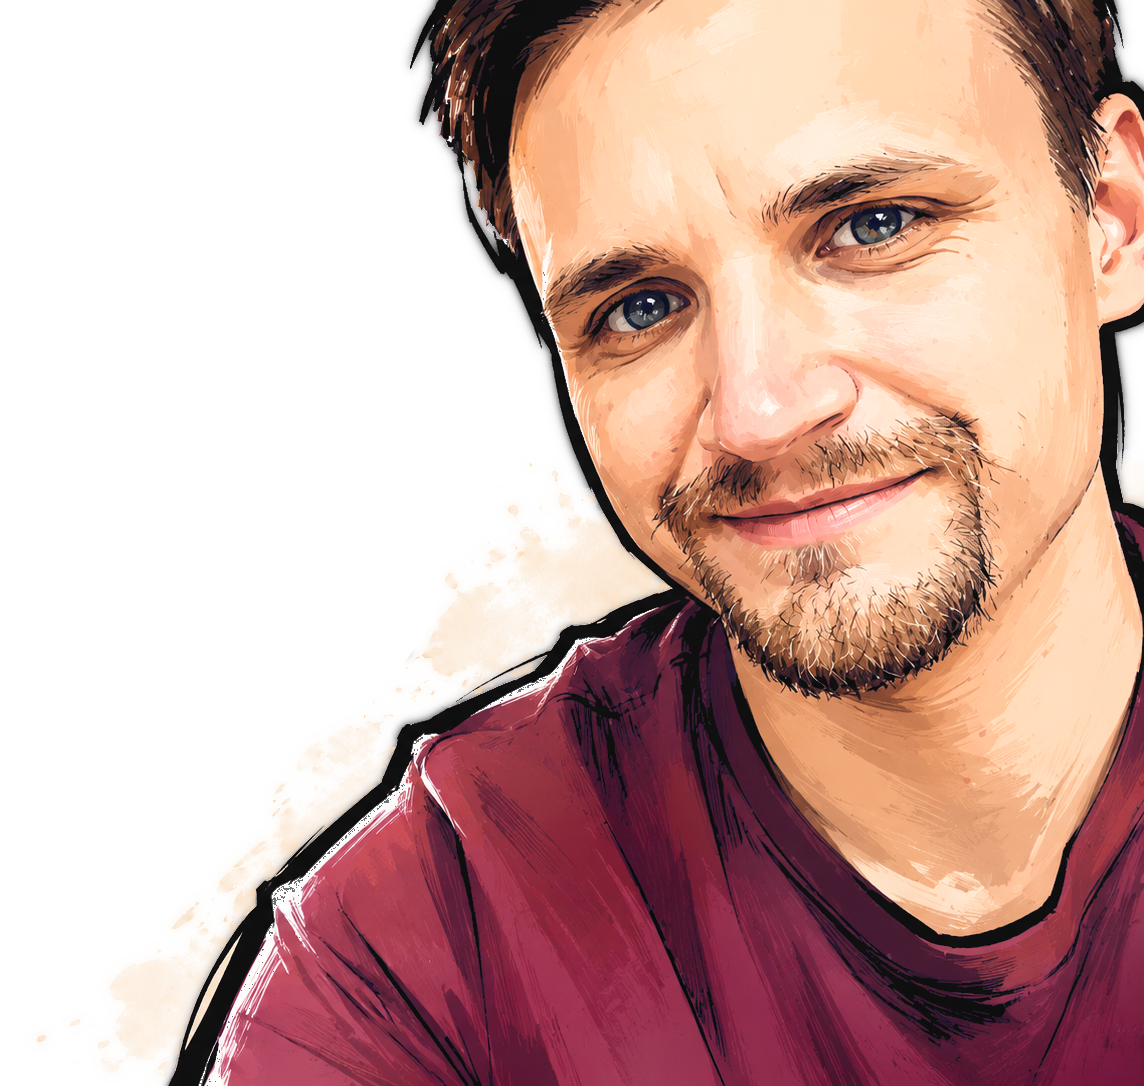
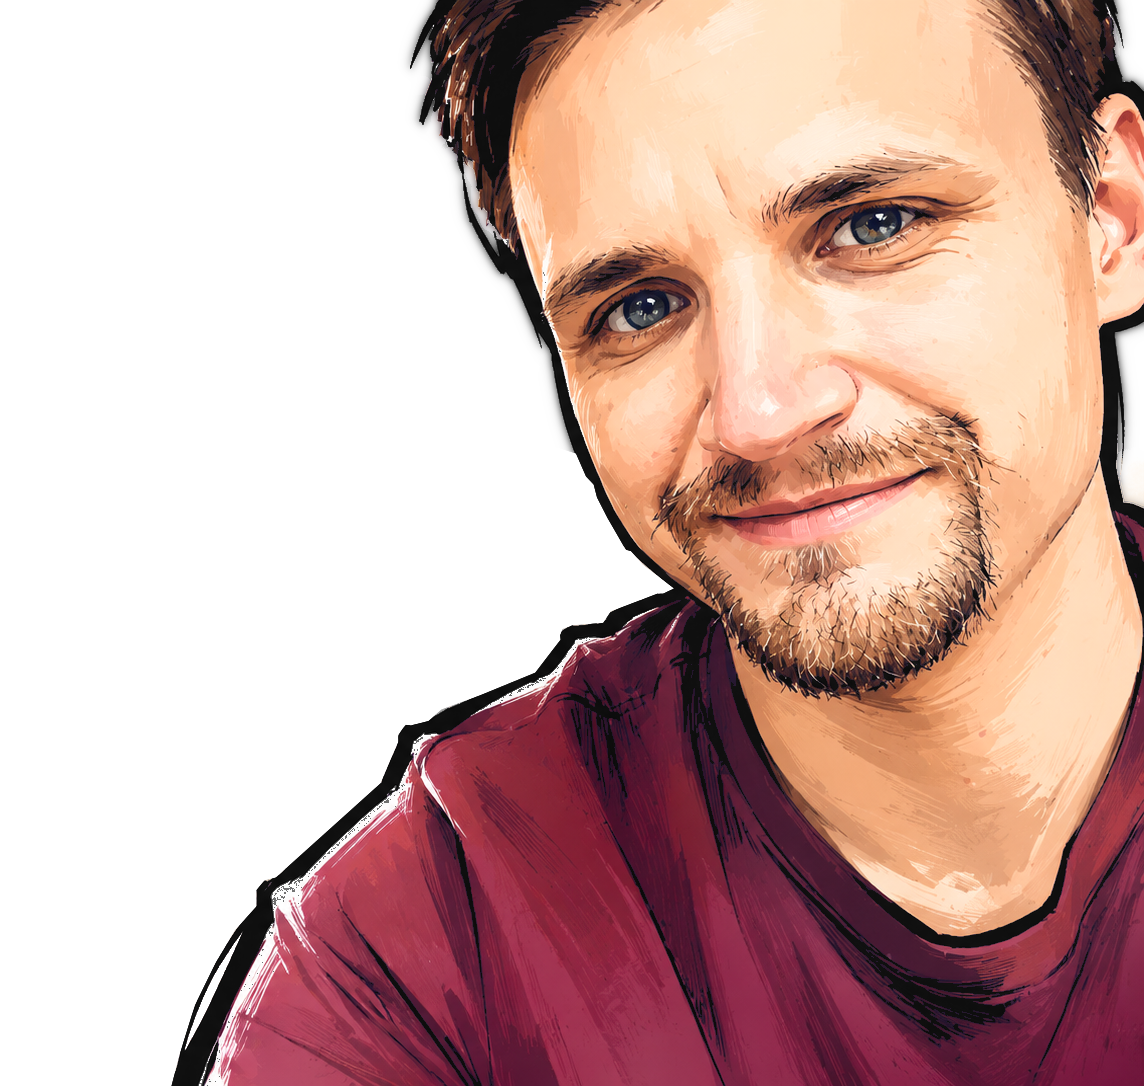
Refine hero lede and testimonial copy

Changed region(s): [[0.3365, 0.4254, 0.5813, 0.6989], [0.0918, 0.6989, 0.3365, 1.0]]

diff --git a/index.html b/index.html
@@ -16,7 +16,7 @@
   <meta property="og:type" content="website">
   <meta property="og:url" content="https://gavalier.sk/">
   <meta property="og:title" content="Marcel Gavalier — Solution Engineer, Coder, AI Engineer, Sieťar, Audio \ Video Producer">
-  <meta property="og:description" content="Tri oblasti. 12 rokov. Bez prerušenia. Staviam to, čo iní outsourcujú trom dodávateľom — weby, apky, streamy a siete z jednej ruky, s mojou sieťou ľudí a AI agentmi za chrbtom.">
+  <meta property="og:description" content="Weby, IT siete, eventy, live prenosy. To, na čo by ste inak hľadali viacerých dodávateľov. 12+ rokov som pre mojich klientov jeden kontakt — dodávam výsledky s tímom ľudí a dnes aj s AI agentami.">
   <meta property="og:image" content="https://gavalier.sk/assets/gavo_edited.png">
   <meta property="og:image:width" content="968">
   <meta property="og:image:height" content="1086">
@@ -156,7 +156,7 @@
         "url": "https://gavalier.sk/",
         "logo": "https://gavalier.sk/assets/logo.min.svg",
         "image": "https://gavalier.sk/assets/gavo_edited.png",
-        "description": "Tri oblasti. 12 rokov. Bez prerušenia. Solution Engineer, ktorý stavia z jednej ruky to, čo iní outsourcujú trom dodávateľom. Weby a aplikácie (Code & IT), live produkcia a streaming (Audio \\ Video & Stage), koordinácia ľudí a AI agentov (Project & People). AI-first prístup, Claude Code v pipeline, sieť preverených freelancerov. Stačí napísať, a ja zavolám.",
+        "description": "Tri oblasti. 12 rokov. Bez prerušenia. Solution Engineer, ktorý stavia z jednej ruky to, čo iní outsourcujú trom dodávateľom. Weby a aplikácie (Code & IT), live produkcia a streaming (Audio \\ Video & Stage), koordinácia ľudí a AI agentov (Project & People). AI-first prístup, Claude Code v pipeline, tím preverených freelancerov. Stačí napísať, a ja zavolám.",
         "priceRange": "$$$",
         "telephone": "+421915697915",
         "email": "[email redacted]",
@@ -312,7 +312,7 @@
             "name": "Pracuje Marcel sám alebo s tímom?",
             "acceptedAnswer": {
               "@type": "Answer",
-              "text": "Marcel má sieť preverených freelancerov, ktorých dlhoročne pozná, a stavia AI agentov, ktorí automatizujú časť práce. Klient nemusí hľadať troch dodávateľov ani sa učiť, čo je možné automatizovať — Marcel rozhodne, koho zavolať, kde nasadiť AI a čo si vziať na seba. Klient rieši výsledok, nie logistiku."
+              "text": "Marcel má tím preverených freelancerov, ktorých dlhoročne pozná, a stavia AI agentov, ktorí automatizujú časť práce. Klient nemusí hľadať troch dodávateľov ani sa učiť, čo je možné automatizovať — Marcel rozhodne, koho zavolať, kde nasadiť AI a čo si vziať na seba. Klient rieši výsledok, nie logistiku."
             }
           },
           {
@@ -426,7 +426,7 @@
       <div class="hero__bottom">
         <div class="container">
           <p class="hero__lede">
-            12+ rokov staviam to, čo iní outsourcujú trom dodávateľom. <strong>Weby</strong>, <strong>apky</strong>, <strong>streamy</strong> a <strong>siete</strong> &ndash; z jednej ruky, s mojou sieťou ľudí a AI agentmi za chrbtom.
+            <strong>Weby</strong>, <strong>IT siete</strong>, <strong>eventy</strong>, <strong>live prenosy</strong>. To, na čo by ste inak hľadali viacerých dodávateľov, som ja. 12+ rokov jeden kontakt pre mojich klientov &ndash; dodávam výsledky s tímom ľudí a dnes aj s AI agentami.
           </p>
           <div class="section-nav">
             <a href="#experience" class="link-arrow">Pozri, čo robím</a>
@@ -443,7 +443,7 @@
         <header class="section-lead">
           <h2 class="section-lead__headline"><span class="headline-mark">Tri oblasti.</span><br>12 rokov.<br>Bez prerušenia.</h2>
           <p class="section-lead__subhead">
-            Väčšina ľudí si vyberie jednu špecializáciu a žije z nej. Ja som zostal v troch &ndash; preto viem, kde sa pretínajú. Koho z mojej siete preverených freelancerov zavolať, kde nasadiť AI agenta a čo si vziať na seba. Je jedno, kto to pre vás spraví &ndash; ak budete <strong>spokojný s výsledkom</strong>.
+            Väčšina ľudí si vyberie jednu špecializáciu a žije z nej. Ja som zostal v troch &ndash; preto viem, kde sa pretínajú. Koho z môjho tímu zavolať, kde nasadiť AI agenta a čo si vziať na seba. Je jedno, kto to pre vás spraví &ndash; ak budete <strong>s výsledkom spokojný</strong>.
           </p>
         </header>
 
@@ -455,7 +455,7 @@
             <p class="experience__area-skills">
               JavaScript, TypeScript &middot; PHP, Python, Bash &middot; REST, JSON &middot; SQL &middot; Linux servery &middot; MikroTik a Ubiquiti deployments &middot; Git, CI/CD &middot; &hellip;
               <br><br>
-              Stack je dnes druhotný. Treba rozumieť objektovému programovaniu, klásť <strong>správne otázky</strong> a držať sa E2E testov. Zvyšok dotiahne <strong>Claude Code</strong>.
+              Stack je dnes druhoradý. Treba rozumieť objektovému programovaniu, klásť <strong>správne otázky</strong> a držať sa E2E testov. Zvyšok dotiahne <strong>Claude Code</strong>.
             </p>
           </li>
 
@@ -922,7 +922,7 @@
               </article>
               <article class="article">
                 <h3 class="article__title">SEO + LLM optimalizácia</h3>
-                <p class="article__text">Nájdu vás ľudia <strong>cez AI</strong>. ChatGPT, Perplexity, Google – štruktúrované dáta, schema.org, sémantické HTML. Viac viditeľnosti, viac zákazníkov.</p>
+                <p class="article__text"><strong>Nájdu vás ľudia cez AI</strong>. ChatGPT, Perplexity, Google – štruktúrované dáta, schema.org, sémantické HTML. Viac viditeľnosti, viac zákazníkov.</p>
               </article>
               <article class="article">
                 <h3 class="article__title">AI-first pipeline (nie vibe coding)</h3>
@@ -1015,7 +1015,7 @@
           <div class="section__content">
             <div class="articles">
               <article class="article">
-                <h3 class="article__title">Sieť preverených sieťarov a adminov</h3>
+                <h3 class="article__title">Tím preverených sieťarov a adminov</h3>
                 <p class="article__text"><strong>Zoženiem správneho</strong> človeka pre vašu konkrétnu situáciu. MikroTik a Ubiquiti konfigurátori, Linux administrátori, bezpečnostní špecialisti – mám ich roky vyskúšaných.</p>
               </article>
               <article class="article">
@@ -1067,11 +1067,11 @@
           </p>
 
           <blockquote class="how-it-works__quote">
-            Platíte si <strong>skúsenosti</strong>, nie hodiny. Rozhodnutia, ktoré som spravil stokrát predtým. To, že viem, kde sa to pokazí &ndash; ešte pred tým, než sa to začne stavať.
+            Platíte si <strong>skúsenosti</strong>, nie hodiny. Rozhodnutia, ktoré som spravil stokrát predtým. To, že viem, kde sa to môže pokaziť &ndash; skôr ako sa začne na tom pracovať.
           </blockquote>
 
           <p class="how-it-works__para">
-            Šikovní freelanceri za 15&nbsp;€/h existujú &ndash; niektorých vám viem aj odporučiť, keďže sú projekty, kde to dáva zmysel. Ale keď chcete spať pokojne, neriešiť problémy s dodaním a mať istotu, že to dobre dobehne &ndash; tak to je dôvod, prečo si pýtam viac.
+            Šikovní freelanceri za 15&nbsp;€/h existujú &ndash; niektorých vám viem aj odporučiť, keďže sú projekty, kde to dáva zmysel. Ale keď chcete spať pokojne, neriešiť problémy s dodaním a mať istotu, že to dobre dopadne &ndash; tak to je dôvod, prečo si pýtam viac.
           </p>
 
           <blockquote class="how-it-works__quote">
@@ -1104,7 +1104,7 @@
 
         <div class="testimonials__rail" role="list">
           <article class="testimonials__card" role="listitem">
-            <blockquote class="testimonials__text">Skúsili sme spoluprácu po prvý raz, len nedávno. S p. Gavalierom sme dohodli dlhodobú spoluprácu. <mark class="headline-mark">Prekročil naše očakávania.</mark></blockquote>
+            <blockquote class="testimonials__text">Skúsili sme spoluprácu len nedávno. Na prvý krát <mark class="headline-mark">prekročil naše očakávania</mark>. S p. Gavalierom sme dohodli dlhodobú spoluprácu.</blockquote>
             <div class="testimonials__meta">
               <p class="testimonials__company">DIGIT, eFocus</p>
               <p class="testimonials__area">Live stream</p>
@@ -1121,7 +1121,7 @@
             <blockquote class="testimonials__text">Šľape to, dodáva veci brutálne rýchlo. Čo neznášam je, keď treba čakať na programátora, aby som zmenil 1 tlačidlo. <mark class="headline-mark">Marcel to spraví hneď.</mark></blockquote>
             <div class="testimonials__meta">
               <p class="testimonials__company">Cavaleers</p>
-              <p class="testimonials__area">Web vývoj</p>
+              <p class="testimonials__area">Web</p>
             </div>
           </article>
           <article class="testimonials__card" role="listitem">
@@ -1146,7 +1146,7 @@
             </div>
           </article>
           <article class="testimonials__card testimonials__card--cta" role="listitem">
-            <blockquote class="testimonials__text">Vaša recenzia môže byť tiež tu.</blockquote>
+            <blockquote class="testimonials__text">Vaša recenzia tu môže byť tiež.</blockquote>
             <div class="testimonials__meta">
               <p class="testimonials__company">Spokojná firma</p>
               <p class="testimonials__area">Tvoja oblasť</p>